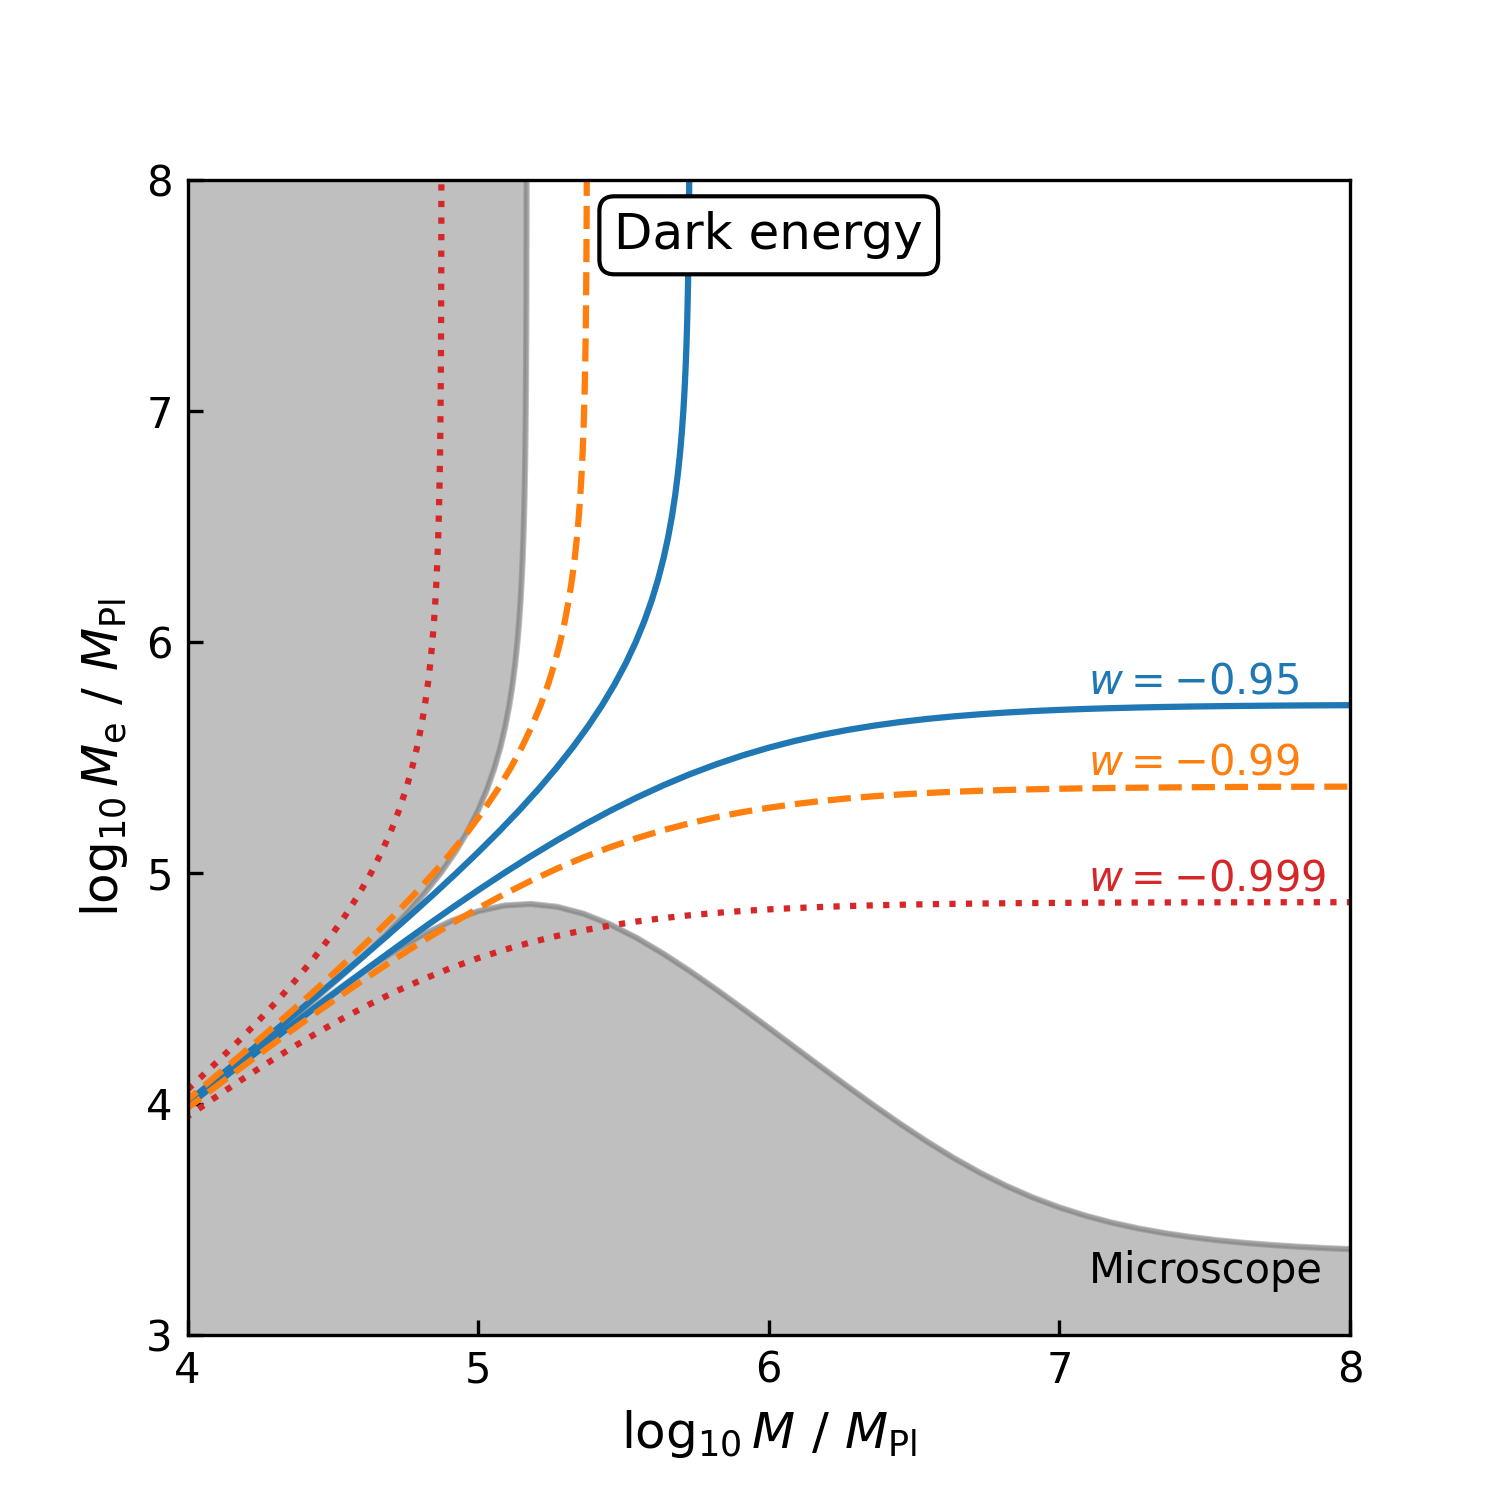
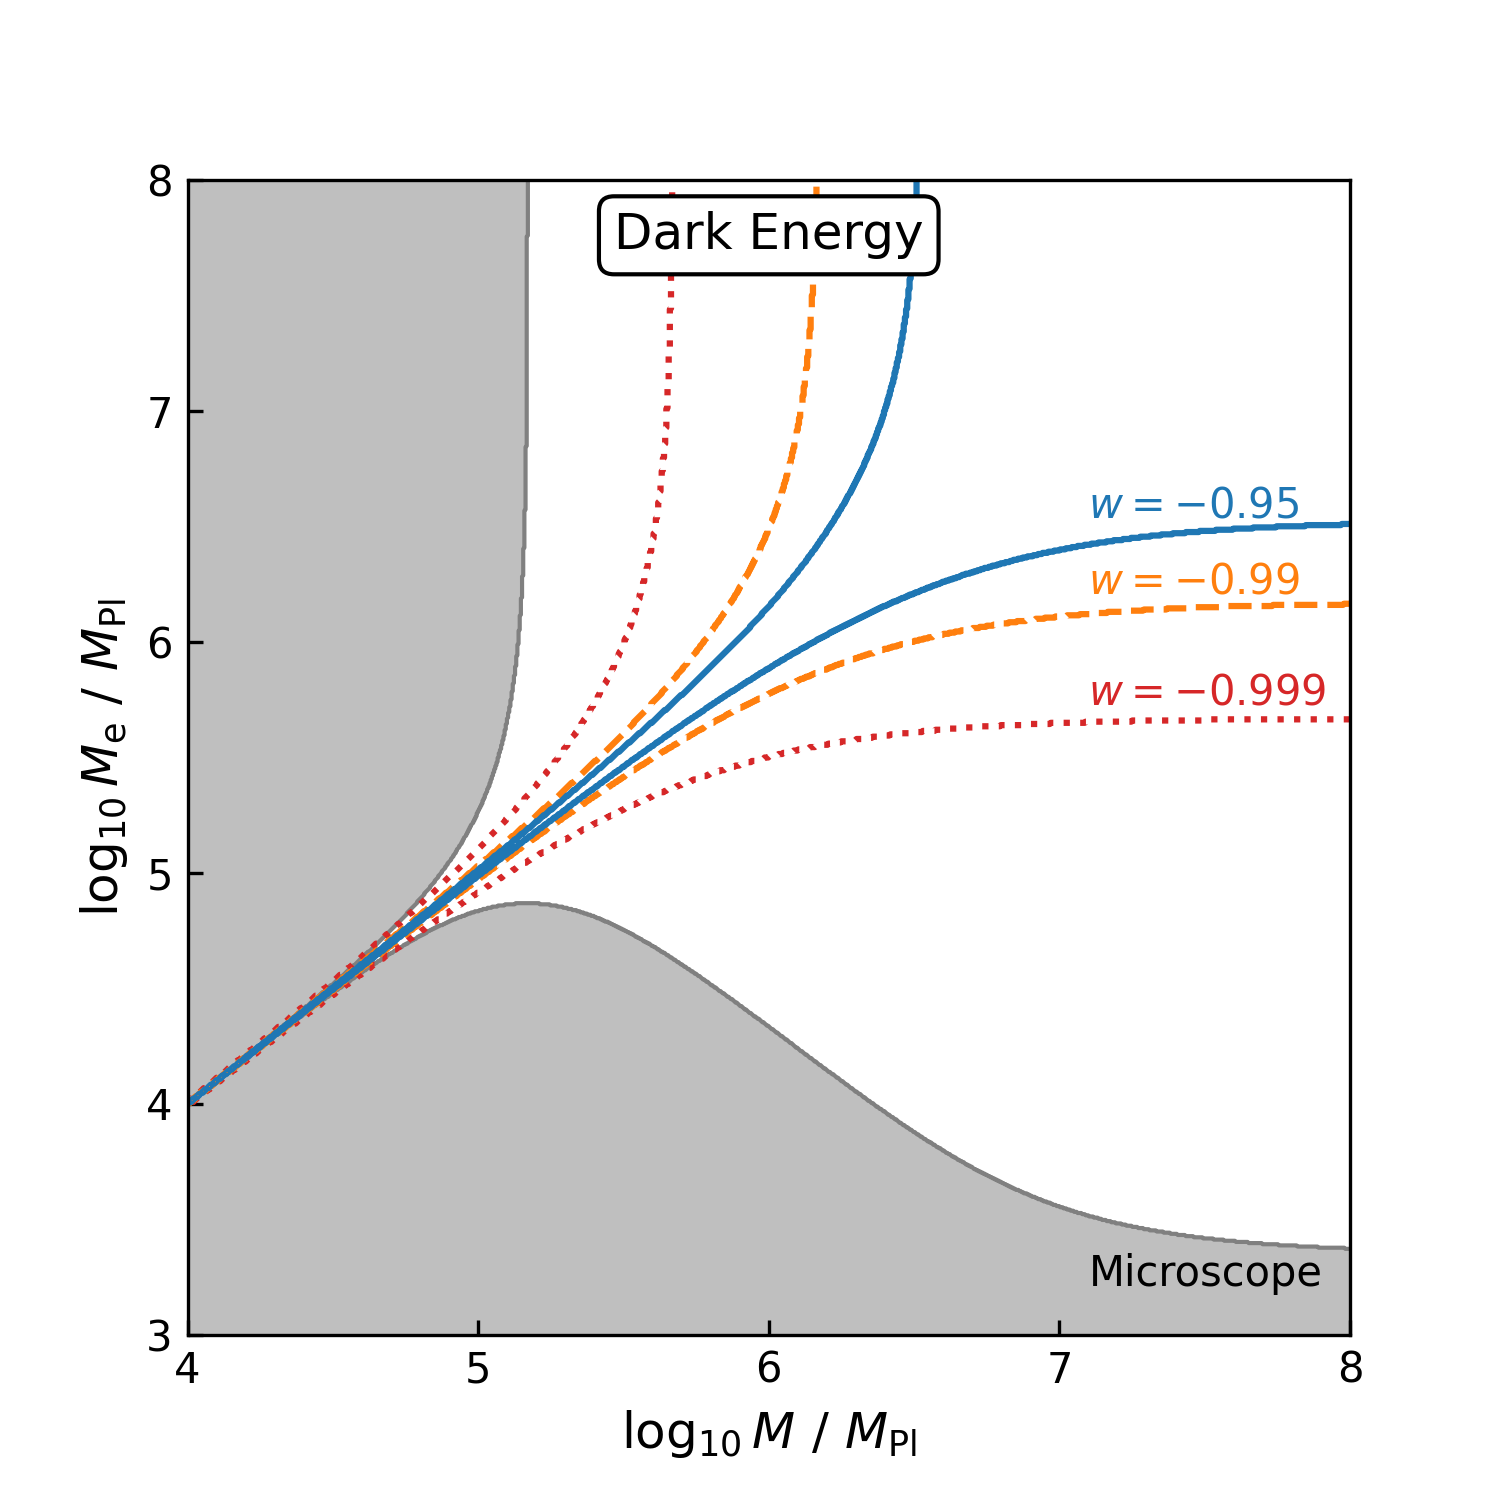
dark energy plots reworked
Plotting a grid with an inequality, rather than solving for the edges of the bounds.

diff --git a/DE-plots.py b/DE-plots.py
@@ -1,0 +1,175 @@
+import matplotlib.pyplot as plt
+import numpy as np
+
+from physical_constants import *
+import mu_constraints as mc
+import plot_options as po
+
+def DE_clock_bound(M, M_e, clock_pair, w = -0.95):
+    # Amplitude in s^-1.  Convert to eV
+    A = mc.DE_max_amplitude(clock_pair) * hbar / c
+    M_eff = (M**-1 - M_e**-1)**-1
+
+    #w = -0.95
+
+    X = rho_DE * (1. + w) / (1. - w)
+
+    M_eff = np.abs(M_eff)
+    return A < np.sqrt(X) / M_eff   # False = 0, True = 1
+
+
+def draw_clock_bound(X, Y, clocks, col, ls = 'solid', w=-0.95):
+    Z = clock_bound(
+            Mpl * np.pow(10, X),
+            Mpl * np.pow(10, Y),
+            clocks, w)
+
+    plt.contour(X, Y, Z,  levels=[0.5], colors = col, linestyles=ls)
+    #plt.contourf(X, Y, Z, levels=[-1, 0], colors = col, alpha = 0.3)
+    return
+
+
+def microscope_bound(M, M_e):
+    eta = microscope_eta
+    eps_Pt = 2e-4
+    eps_Ti = 2.3e-4
+    eps_earth = 2.33e-4 # Iron
+
+    out = 2 * Mpl**2 * (M**-1 - M_e**-1)
+    out *= (M**-1 + eps_earth / M_e)
+    out *= (eps_Pt - eps_Ti)
+    out = np.abs(out)
+
+    return eta < out
+
+### First plot ###
+# M_e vs M
+plt.figure(1, figsize=po.figsize )
+
+# logarithmic limits
+# i.e. M = Mpl * 10^x
+xmin, xmax = 4, 8
+ymin, ymax = 3, 8
+
+X, Y = np.meshgrid(
+        np.linspace(xmin, xmax, po.resolution),
+        np.linspace(ymin, ymax, po.resolution))
+
+# Curves
+
+# Microscope #
+Z = microscope_bound(
+        Mpl * np.pow(10, X),
+        Mpl * np.pow(10, Y))
+plt.contour(X, Y, Z, levels=[0.5], colors='gray', linewidths = 1)
+plt.contourf(X, Y, Z, levels=[0.5, 1.], colors='gray', alpha = 0.5)
+
+# Clocks
+draw_clock_bound(X, Y, 'CaF/Sr', po.colorcycle[3], 'dotted', w = -0.999)
+draw_clock_bound(X, Y, 'CaF/Sr', po.colorcycle[1], 'dashed', w= -0.99)
+draw_clock_bound(X, Y, 'CaF/Sr', po.colorcycle[0], w = -0.95)
+
+
+# Style
+plt.tick_params( direction = 'in' )
+
+plt.xticks([4,5,6,7,8])
+
+plt.xlabel(r"$\log_{10} M~/~M_\mathrm{Pl}$", fontsize=12)
+plt.ylabel(r"$\log_{10} M_\mathrm{e}~/~M_\mathrm{Pl}$", fontsize=12)
+
+x_pos = 7.1
+pi = 3.14
+plt.text(x_pos, 3.21, "Microscope", ha = "left")
+plt.text(x_pos, 6.54, "$w = -0.95$", c=po.colorcycle[0], ha = "left")
+plt.text(x_pos, 6.21, "$w = -0.99$", c=po.colorcycle[1], ha = "left")
+plt.text(x_pos, 5.73, "$w = -0.999$", c=po.colorcycle[3], ha = "left")
+
+
+props = dict(boxstyle='round', facecolor = "white", alpha=1.0)
+plt.text(6, 7.7, "Dark Energy",
+         fontsize=12, ha='center', bbox=po.title_box_properties)
+
+plt.savefig("plots/DE-Me-vs-M.png", dpi=po.dpi_setting)
+
+### Second plot ###
+# M_eff vs w
+
+plt.figure(2, figsize=po.figsize)
+plt.clf()
+
+# semi log axes
+# w on x axis
+# M_eff on y axis
+xmin, xmax = -1.005, -0.94
+ymin, ymax = 3, 7
+
+X, Y = np.meshgrid(
+        np.linspace(xmin, xmax, po.resolution),
+        np.linspace(ymin, ymax, po.resolution))
+
+# Microscope #
+
+Z = microscope_bound(Mpl * np.pow(10, Y), np.inf)
+plt.contour(X, Y, Z, levels=[0.5], colors='gray')
+plt.contourf(X, Y, Z, levels=[0.5, 1], colors='gray', alpha=0.5)
+
+Z = microscope_bound(np.inf, Mpl * np.pow(10, Y))
+plt.contour(X, Y, Z, levels=[0.5], colors='gray')
+plt.contourf(X, Y, Z, levels=[0.5, 1], colors='gray', alpha=0.5)
+
+plt.text(-0.999, 5.05, r"Microscope ($M_\mathrm{e} \to \infty$)", ha = "left", fontsize=6)
+plt.text(-0.999, 3.225, r"Microscope ($M \to \infty$)", ha = "left", fontsize=6)
+
+
+# Clocks #
+Z = clock_bound(
+        Mpl * np.pow(10, Y),
+        np.inf,
+        'CaF/Sr',
+        X)
+plt.contour(X, Y, Z,  levels=[0.5], colors=po.colorcycle[0])
+plt.contourf(X, Y, Z,  levels=[0.5,1], colors=po.colorcycle[0], alpha=0.3)
+
+Z = clock_bound(
+        Mpl * np.pow(10, Y),
+        np.inf,
+        'Cs/Sr',
+        X)
+plt.contour(X, Y, Z,  levels=[0.5], colors=po.colorcycle[1])
+plt.contourf(X, Y, Z,  levels=[0.5,1], colors=po.colorcycle[1], alpha=0.3)
+
+plt.text(-0.98, 6.15, "CaF/Sr clocks", color='black', rotation=7, fontsize=12)
+plt.text(-0.98, 4.9, "Cs/Sr clocks", color='black', rotation=7, fontsize=12)
+
+
+# Planck #
+def planck_bound(w):
+    return -0.95 < w
+Z = planck_bound(X)
+
+plt.contour(X, Y, Z,  levels=[0.5], colors = 'brown')
+plt.contourf(X, Y, Z,  levels=[0.5, 1], colors = 'brown', alpha=0.3)
+plt.text(-0.9495, 3.75, "Planck", rotation = "vertical", fontsize=8)
+
+# Phantom dark energy
+plt.axvline(x = -1, color = 'black', linestyle = 'dashed')
+plt.text(-1.002, 6, "Phantom DE", rotation = 'vertical', fontsize=8)
+
+# Style and annotations #
+
+plt.xticks([-1.0, -0.99, -0.98, -0.97, -0.96, -0.95, -0.94])
+plt.yticks([3,4,5,6,7])
+
+
+x_pos = np.mean([xmin, xmax])
+plt.text(x_pos, 6.76, "Dark Energy",
+         fontsize=12, ha='center', bbox=po.title_box_properties)
+plt.tick_params( direction = 'in' )
+
+plt.xlabel(r"DE equation of state $w$", fontsize=12)
+plt.ylabel(r"$\log_{10} M_{\rm eff} ~/~ M_\mathrm{Pl}$", fontsize=12)
+
+plt.savefig("plots/DE-Meff-vs-w.png", dpi=po.dpi_setting)
+
+#plt.show()

diff --git a/field_solutions.py b/field_solutions.py
@@ -1,0 +1,37 @@
+"""
+    field_solutions.py
+
+    Contains solutions for the gradient of the scalar field,
+    vs distance to a spherical object, in various theories.
+
+    Used for the modified gravity clock signals, as well as for
+    some of the existing bounds like MICROSCOPE.
+"""
+
+import numpy as np
+
+PI = np.pi
+
+def dphi_massless(M_obj, r, M):
+    """ Massless scalar """
+    return M_obj / (4*PI * M * r**2)
+
+def dphi_yukawa(M_obj, r, M, m):
+    """ Massive scalar """
+    return dphi_massless(M_obj, r, M) * np.exp(- m * r)
+
+def dphi_galileon_3(M_obj, r, M, Lambda):
+    """ Cubic galileon """
+    L = Lambda
+    rhs = M_obj / (4 * PI * M * r**3)
+    return r * np.sqrt(L**3 / 2 * rhs)
+
+def dphi_galileon_4(M_obj, r, M, Lambda, c4):
+    """ Quartic galileon """
+    L = Lambda
+    rhs = M_obj / (4 * PI * M * r**3)
+    return r * np.pow(L**6 / (2*c4) * rhs, 1/3.)
+
+def dphi_generalized(M_obj, r, M, Lambda, alpha, beta):
+    """ Generalized force model """
+    return

diff --git a/physical_constants.py b/physical_constants.py
@@ -1,0 +1,35 @@
+'''
+physical_constants.py
+
+Used for the theory plots.  All quantities are converted to eV, that is,
+natural units in which c = hbar = 1.
+
+Here Mpl = (8 pi G)^{-1/2} is the reduced Planck mass.
+'''
+
+### Fundamental constants ###
+hbar = 2e-5     # cm eV
+c    = 3e10     # cm s^-1
+Mpl  = 2.4e27   # eV
+
+### Conversion factors ###
+g_to_eV = 1e9 / 1.8e-24
+
+### Time ###
+second = c / hbar
+minute = 60 * second
+hour = 60 * minute
+day = 24 * hour
+year = 365 * day
+
+### Solar System    ###
+AU = 1.5e13 / hbar  # cm to eV^-1
+solar_mass = 2e33 * g_to_eV
+earth_mass = 1.7e28 * g_to_eV
+earth_eccentricity = 0.0167
+
+### Cosmology ###
+Lambda_DE = 2.4e-3  # eV
+rho_DE = Lambda_DE**4.
+rho_DM = 1e-11
+rho_DM_local = 2.6e-6

diff --git a/plot_options.py b/plot_options.py
@@ -1,0 +1,22 @@
+"""
+Options for the plots
+"""
+
+import matplotlib.pyplot as plt
+
+# Color scheme
+colorcycle = plt.rcParams['axes.prop_cycle'].by_key()['color']
+
+# Most standard printers are 300dpi, so the figsize is the actual
+# size on a page.
+figsize = (5, 5)
+dpi_setting = 300
+
+# Number of grid points in the plots.
+# Around 1k looks ok and is fast.
+# Set this to a high value (~10k) for the final versions
+# of the plots.
+resolution = 1000
+
+
+title_box_properties = dict(boxstyle='round', facecolor = "white", alpha=1.0)

diff --git a/bounds.py b/bounds.py
@@ -1,0 +1,6 @@
+import numpy as np
+
+PI = np.pi
+
+microscope_eta = np.sqrt(2.3**2 + 1.5**2) * 1e-15
+
